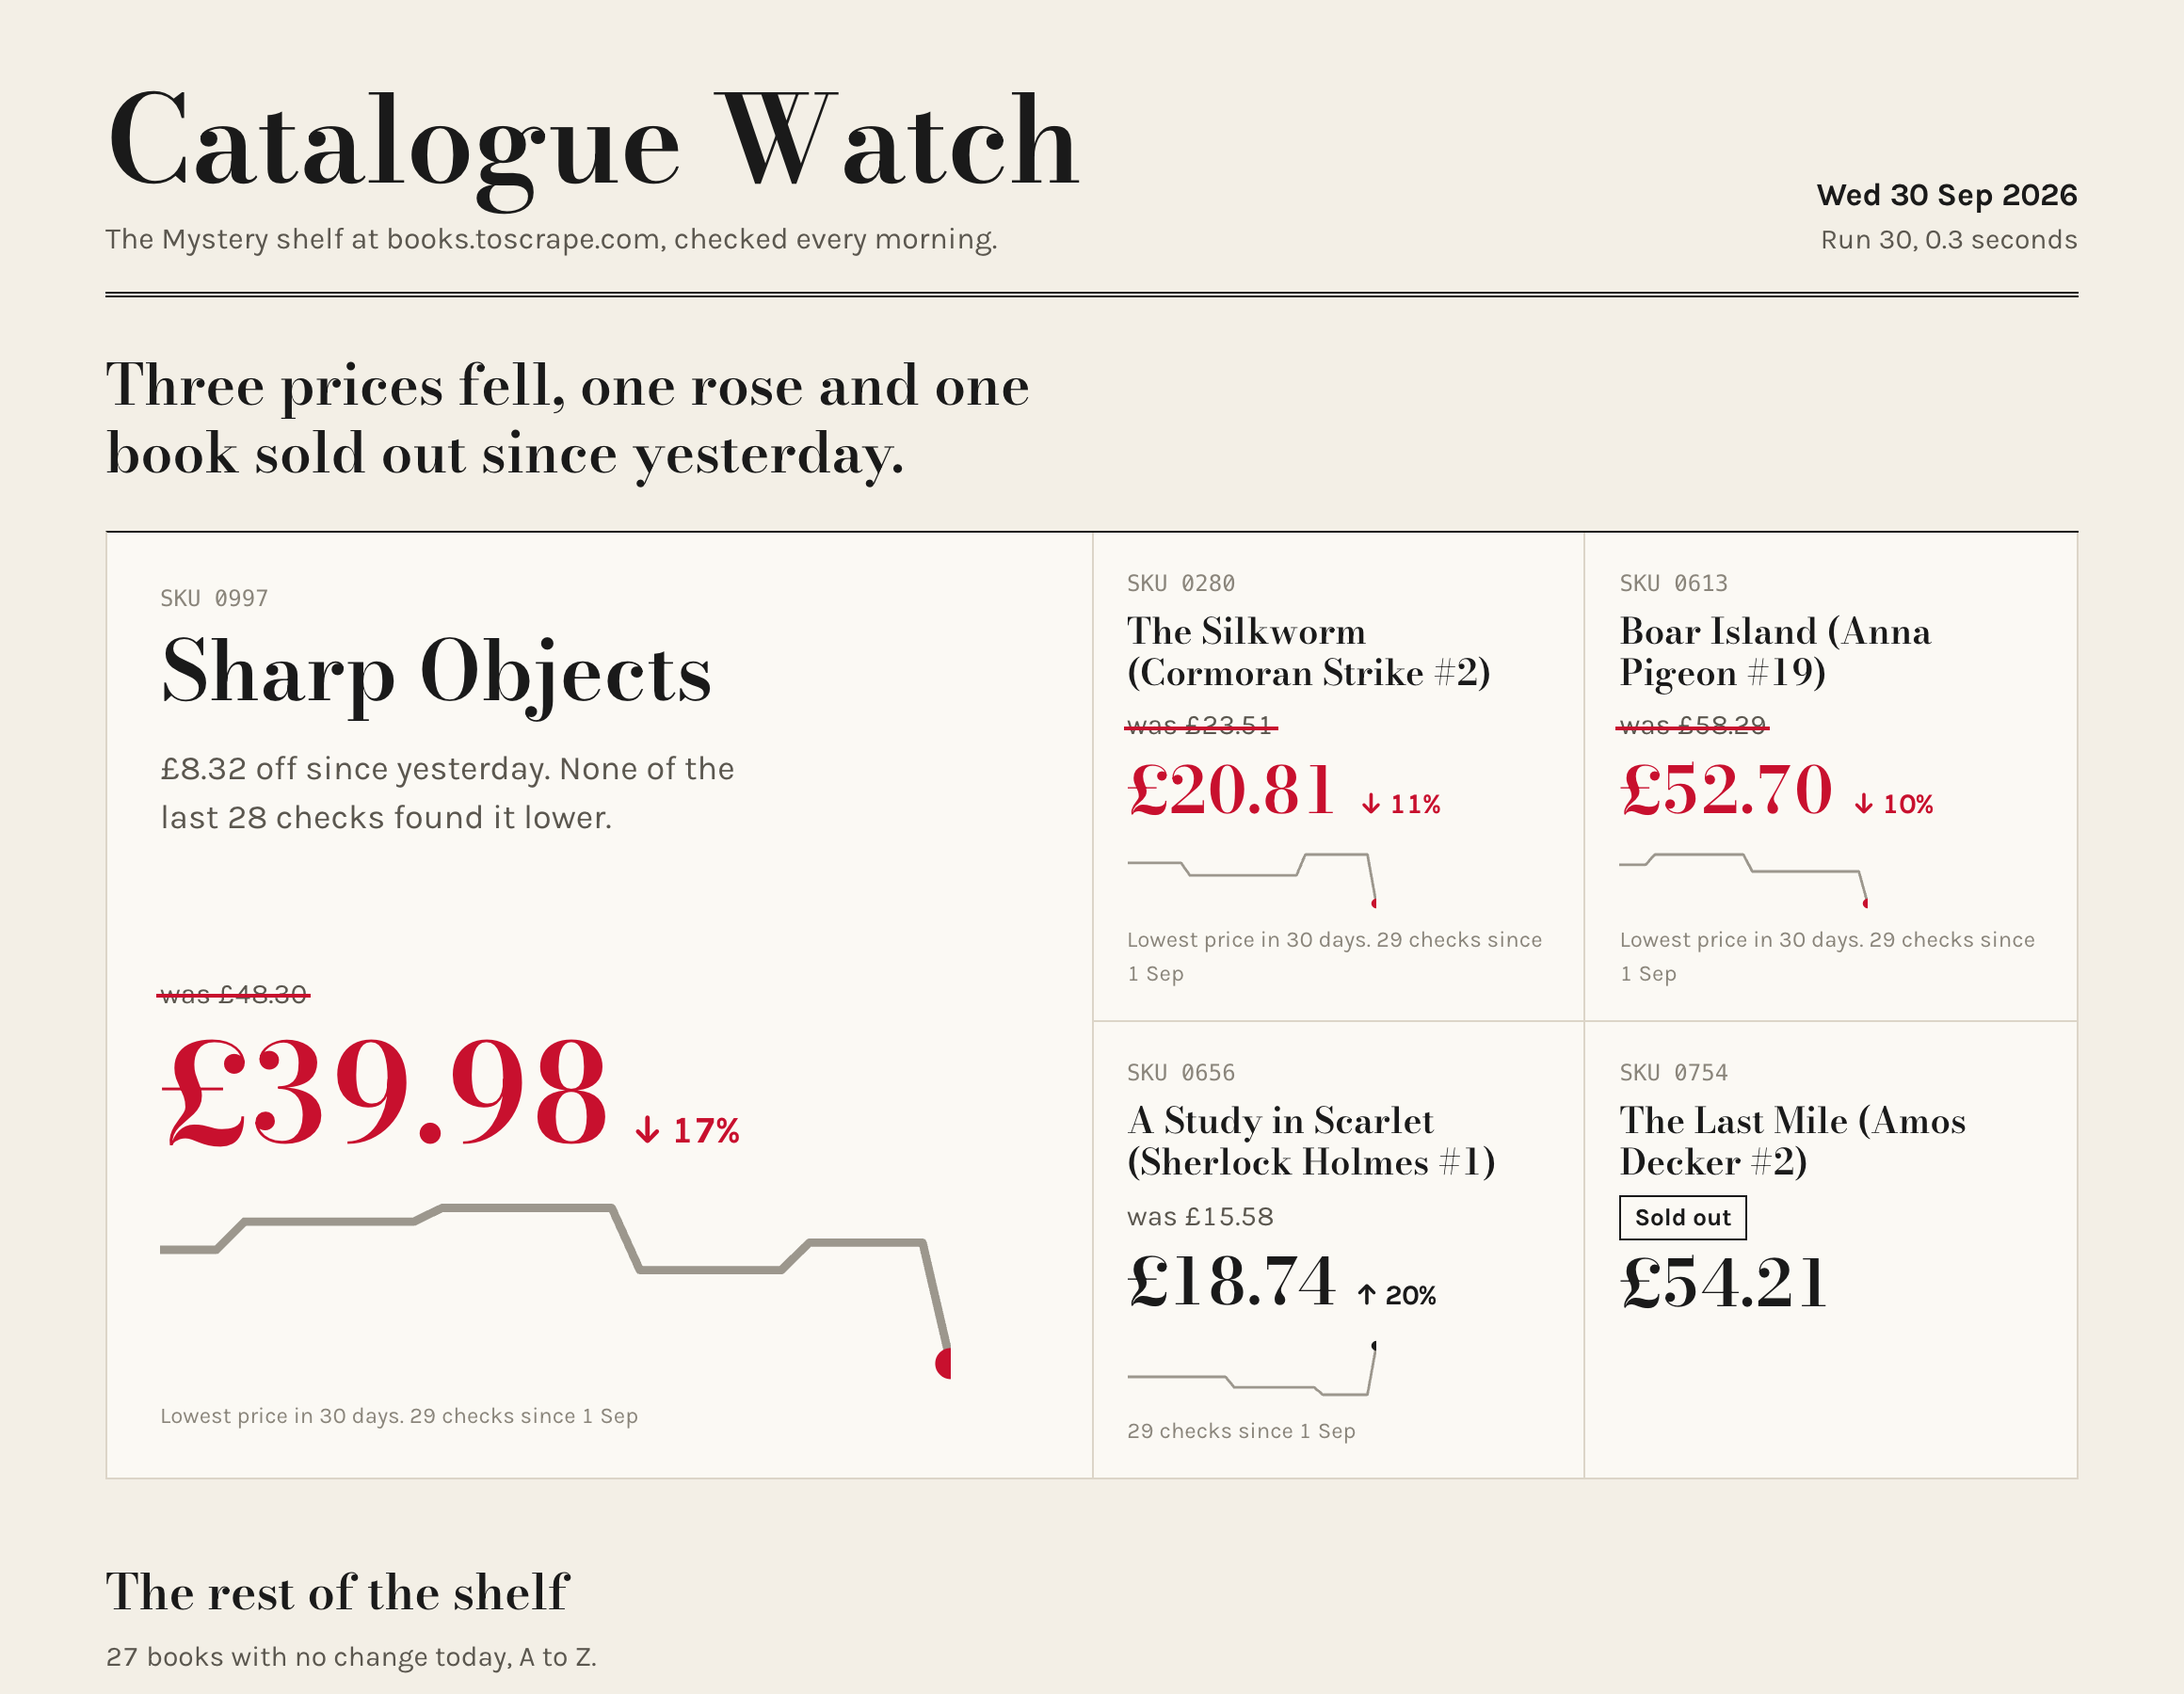
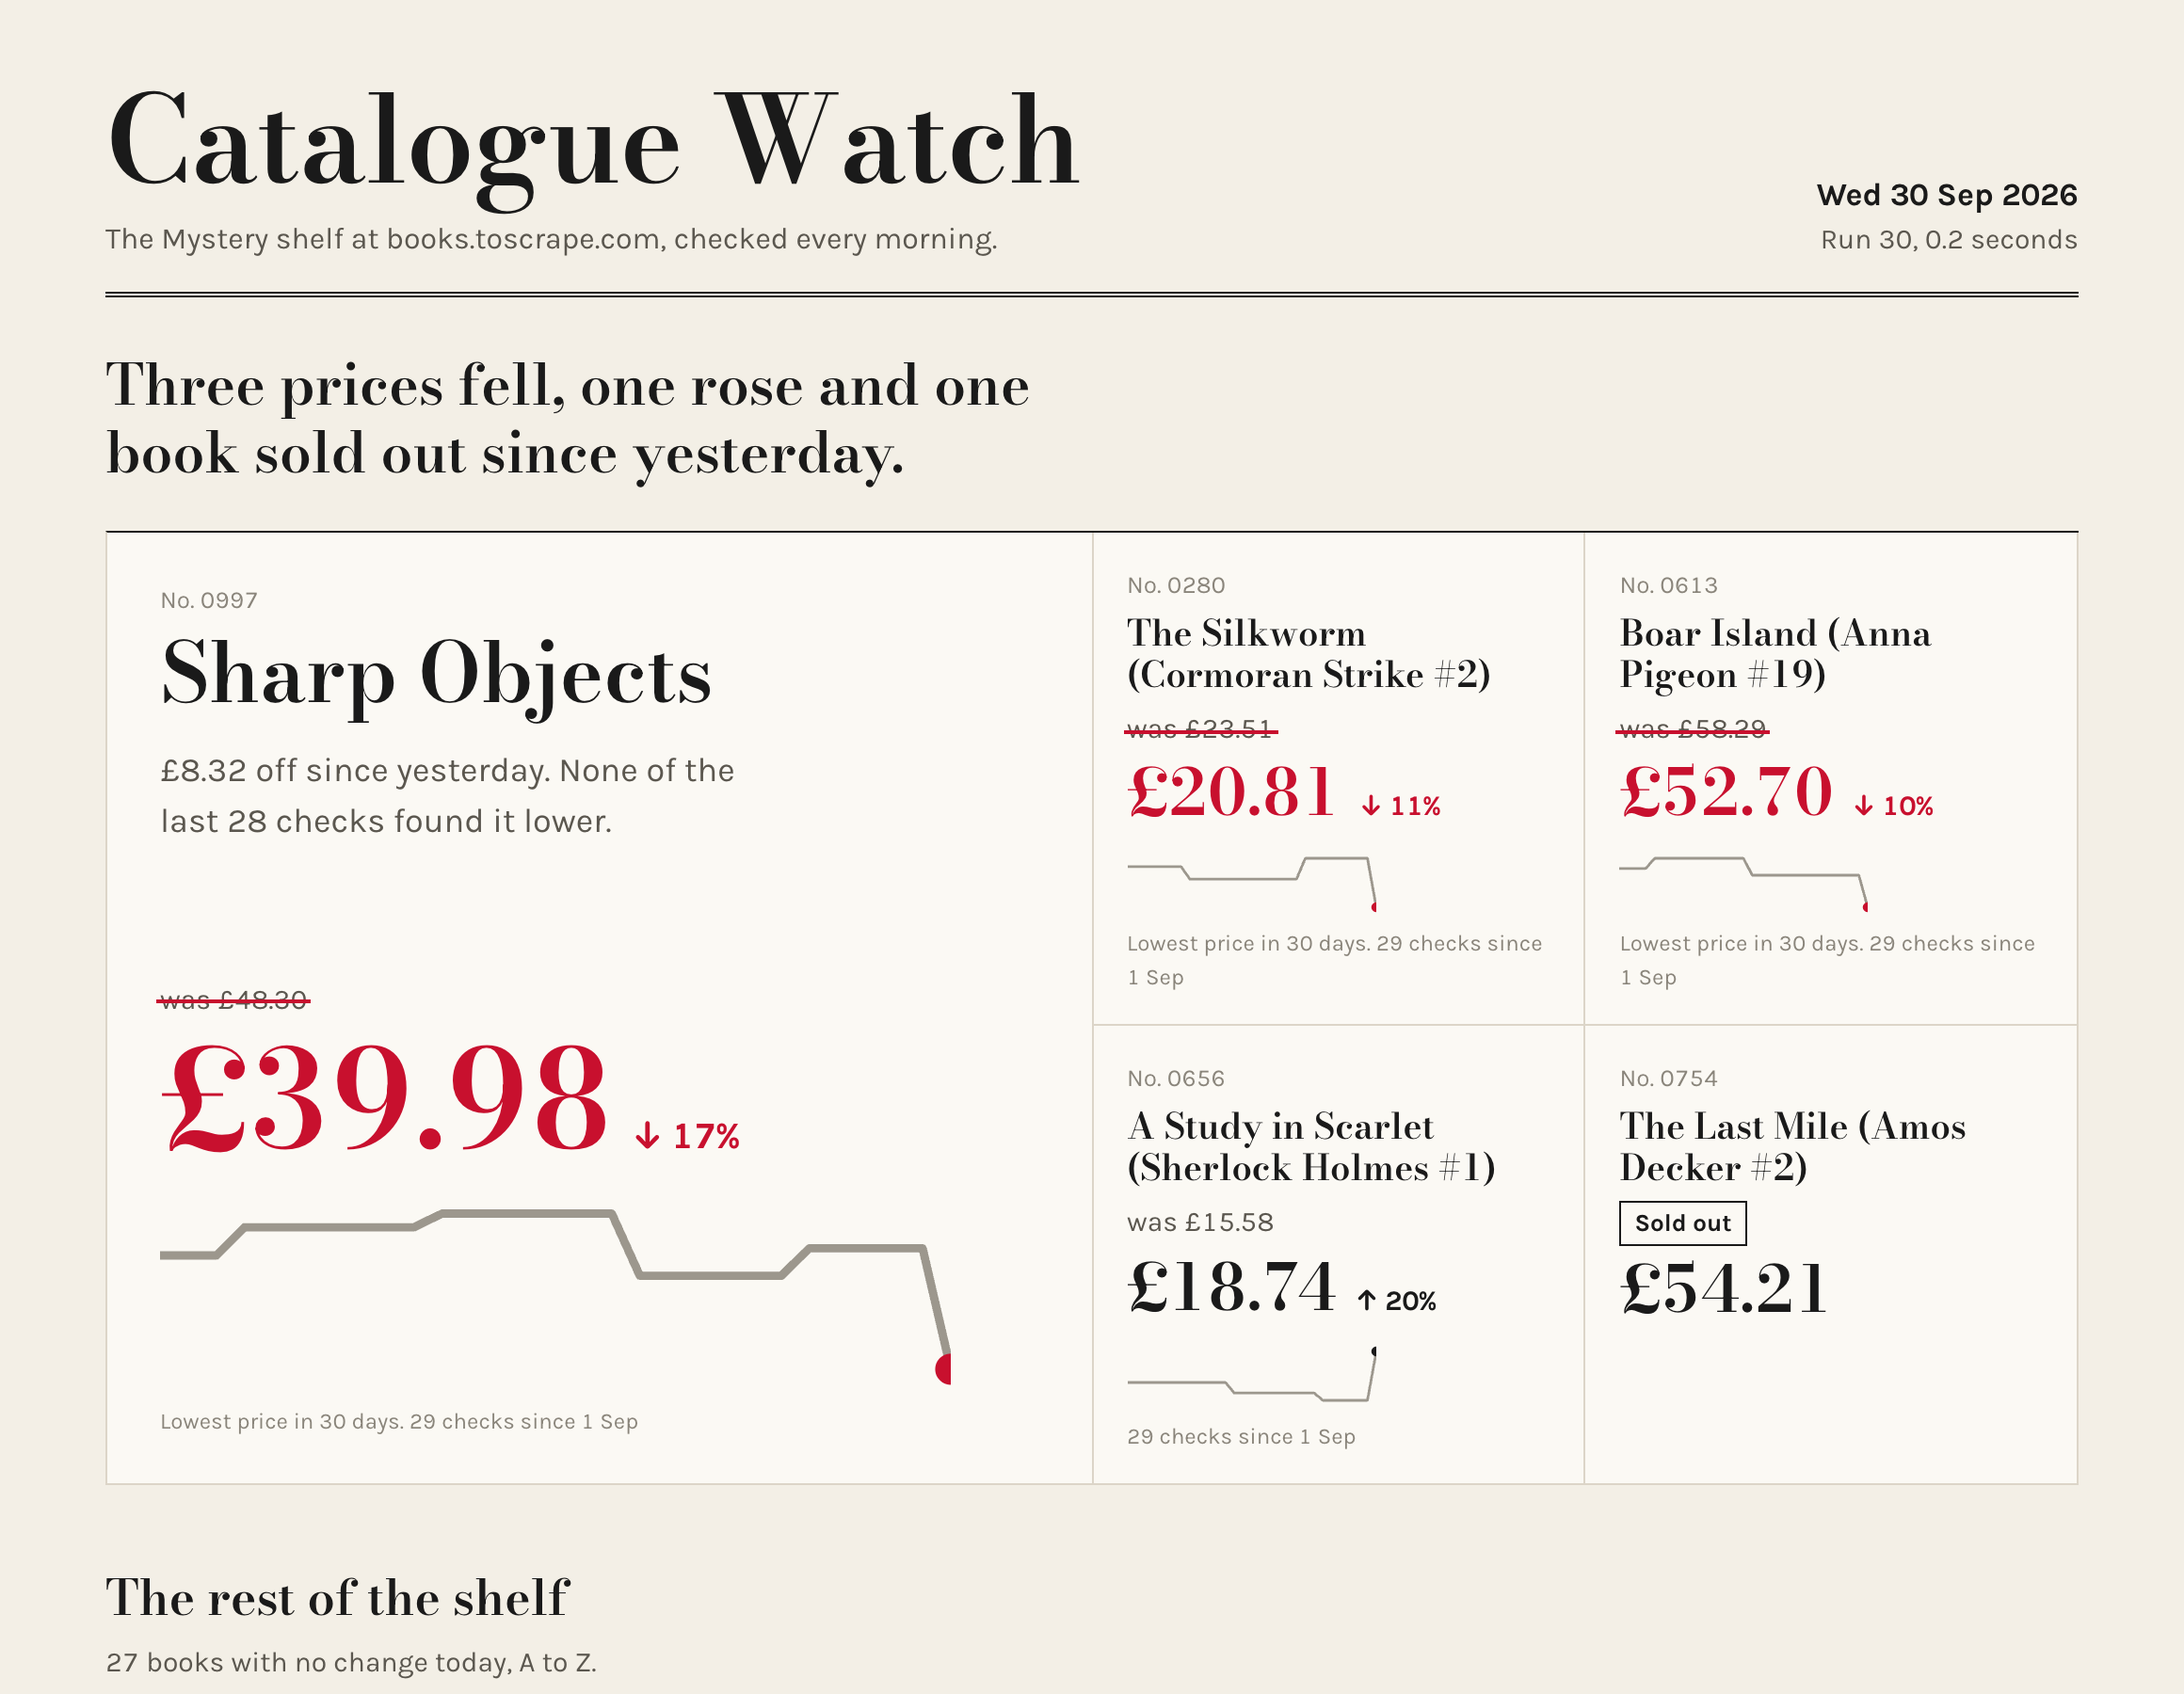
Product numbers in the body face, sentence case

diff --git a/docs/sample-report.html b/docs/sample-report.html
@@ -24,7 +24,7 @@ h1{font-family:"Bodoni",Didot,serif;font-weight:600;font-size:64px;line-height:.
 .grid{display:grid;grid-template-columns:repeat(4,1fr);grid-auto-rows:minmax(190px,auto);gap:0;border-top:1px solid var(--ink);border-left:1px solid var(--hair)}
 .tile{background:var(--sheet);border-right:1px solid var(--hair);border-bottom:1px solid var(--hair);padding:18px 18px 16px;display:flex;flex-direction:column;gap:6px;min-width:0}
 .tile.lead{grid-column:span 2;grid-row:span 2;padding:26px 28px 24px}
-.sku{font-family:ui-monospace,"SF Mono",Menlo,monospace;font-size:12px;color:var(--faint)}
+.sku{font-size:13px;color:var(--faint);font-variant-numeric:tabular-nums}
 .tile h3{font-family:"Bodoni",Didot,serif;font-weight:600;font-size:19px;line-height:1.15;margin:0;overflow-wrap:anywhere}
 .tile.lead h3{font-size:44px;line-height:1.05;max-width:16ch}
 .save{margin:10px 0 0;font-size:18px;line-height:1.45;color:var(--soft);max-width:30ch}
@@ -68,7 +68,7 @@ footer{margin-top:40px;padding-top:14px;border-top:1px solid var(--hair);color:v
 </style></head><body><main class="sheet">
 <header class="mast">
   <div><h1>Catalogue Watch</h1><div class="shelf">The Mystery shelf at books.toscrape.com, checked every morning.</div></div>
-  <div class="issue"><b>Wed 30 Sep 2026</b>Run 30, 0.3 seconds</div>
+  <div class="issue"><b>Wed 30 Sep 2026</b>Run 30, 0.2 seconds</div>
 </header>
 
 
@@ -79,7 +79,7 @@ footer{margin-top:40px;padding-top:14px;border-top:1px solid var(--hair);color:v
 <section class="grid" aria-label="Changed since the last run">
 
   <article class="tile drop lead">
-    <span class="sku">SKU 0997</span>
+    <span class="sku">No. 0997</span>
     <h3>Sharp Objects</h3>
     <p class="save">£8.32 off since yesterday. None of the last 28 checks found it lower.</p>
     
@@ -91,7 +91,7 @@ footer{margin-top:40px;padding-top:14px;border-top:1px solid var(--hair);color:v
   </article>
 
   <article class="tile drop">
-    <span class="sku">SKU 0280</span>
+    <span class="sku">No. 0280</span>
     <h3>The Silkworm (Cormoran Strike #2)</h3>
     
     
@@ -103,7 +103,7 @@ footer{margin-top:40px;padding-top:14px;border-top:1px solid var(--hair);color:v
   </article>
 
   <article class="tile drop">
-    <span class="sku">SKU 0613</span>
+    <span class="sku">No. 0613</span>
     <h3>Boar Island (Anna Pigeon #19)</h3>
     
     
@@ -115,7 +115,7 @@ footer{margin-top:40px;padding-top:14px;border-top:1px solid var(--hair);color:v
   </article>
 
   <article class="tile rise">
-    <span class="sku">SKU 0656</span>
+    <span class="sku">No. 0656</span>
     <h3>A Study in Scarlet (Sherlock Holmes #1)</h3>
     
     
@@ -127,7 +127,7 @@ footer{margin-top:40px;padding-top:14px;border-top:1px solid var(--hair);color:v
   </article>
 
   <article class="tile sold">
-    <span class="sku">SKU 0754</span>
+    <span class="sku">No. 0754</span>
     <h3>The Last Mile (Amos Decker #2)</h3>
     
     
@@ -207,7 +207,7 @@ footer{margin-top:40px;padding-top:14px;border-top:1px solid var(--hair);color:v
   <thead><tr><th>Date</th><th class="r">Books</th><th class="r">Changes</th><th class="r">Time</th><th>Status</th></tr></thead>
   <tbody>
   
-    <tr class=" this"><td>Wed 30 Sep, 7:02 am</td><td class="r">32</td><td class="r">5</td><td class="r">0.3 s</td><td class="st">Done</td></tr>
+    <tr class=" this"><td>Wed 30 Sep, 7:02 am</td><td class="r">32</td><td class="r">5</td><td class="r">0.2 s</td><td class="st">Done</td></tr>
   
     <tr class=""><td>Tue 29 Sep, 7:02 am</td><td class="r">32</td><td class="r">0</td><td class="r">0.3 s</td><td class="st">Done</td></tr>
   
@@ -219,13 +219,13 @@ footer{margin-top:40px;padding-top:14px;border-top:1px solid var(--hair);color:v
   
     <tr class=""><td>Fri 25 Sep, 7:02 am</td><td class="r">32</td><td class="r">1</td><td class="r">0.3 s</td><td class="st">Done</td></tr>
   
-    <tr class=""><td>Thu 24 Sep, 7:02 am</td><td class="r">32</td><td class="r">2</td><td class="r">0.3 s</td><td class="st">Done</td></tr>
+    <tr class=""><td>Thu 24 Sep, 7:02 am</td><td class="r">32</td><td class="r">2</td><td class="r">0.2 s</td><td class="st">Done</td></tr>
   
     <tr class=""><td>Wed 23 Sep, 7:02 am</td><td class="r">32</td><td class="r">0</td><td class="r">0.3 s</td><td class="st">Done</td></tr>
   
-    <tr class=""><td>Tue 22 Sep, 7:02 am</td><td class="r">32</td><td class="r">1</td><td class="r">0.2 s</td><td class="st">Done</td></tr>
+    <tr class=""><td>Tue 22 Sep, 7:02 am</td><td class="r">32</td><td class="r">1</td><td class="r">0.3 s</td><td class="st">Done</td></tr>
   
-    <tr class=""><td>Mon 21 Sep, 7:02 am</td><td class="r">32</td><td class="r">1</td><td class="r">0.3 s</td><td class="st">Done</td></tr>
+    <tr class=""><td>Mon 21 Sep, 7:02 am</td><td class="r">32</td><td class="r">1</td><td class="r">0.2 s</td><td class="st">Done</td></tr>
   
     <tr class=""><td>Sun 20 Sep, 7:02 am</td><td class="r">32</td><td class="r">1</td><td class="r">0.3 s</td><td class="st">Done</td></tr>
   

diff --git a/watcher/report.py b/watcher/report.py
@@ -75,7 +75,7 @@ h1{font-family:"Bodoni",Didot,serif;font-weight:600;font-size:64px;line-height:.
 .grid{display:grid;grid-template-columns:repeat(4,1fr);grid-auto-rows:minmax(190px,auto);gap:0;border-top:1px solid var(--ink);border-left:1px solid var(--hair)}
 .tile{background:var(--sheet);border-right:1px solid var(--hair);border-bottom:1px solid var(--hair);padding:18px 18px 16px;display:flex;flex-direction:column;gap:6px;min-width:0}
 .tile.lead{grid-column:span 2;grid-row:span 2;padding:26px 28px 24px}
-.sku{font-family:ui-monospace,"SF Mono",Menlo,monospace;font-size:12px;color:var(--faint)}
+.sku{font-size:13px;color:var(--faint);font-variant-numeric:tabular-nums}
 .tile h3{font-family:"Bodoni",Didot,serif;font-weight:600;font-size:19px;line-height:1.15;margin:0;overflow-wrap:anywhere}
 .tile.lead h3{font-size:44px;line-height:1.05;max-width:16ch}
 .save{margin:10px 0 0;font-size:18px;line-height:1.45;color:var(--soft);max-width:30ch}
@@ -135,7 +135,7 @@ footer{margin-top:40px;padding-top:14px;border-top:1px solid var(--hair);color:v
 <section class="grid" aria-label="Changed since the last run">
 {% for t in tiles %}
   <article class="tile {{ t.cls }}{% if loop.first and t.cls == 'drop' %} lead{% endif %}">
-    <span class="sku">SKU {{ t.sku }}</span>
+    <span class="sku">No. {{ t.sku }}</span>
     <h3>{{ t.title }}</h3>
     {% if loop.first and t.cls == 'drop' and t.save %}<p class="save">{{ t.save }}</p>{% endif %}
     {% if t.kind == 'out_of_stock' %}
